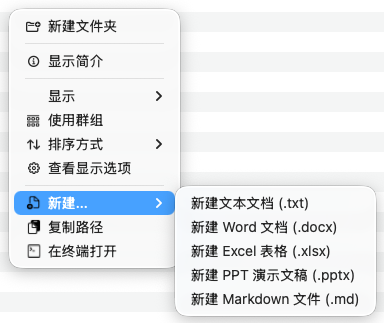
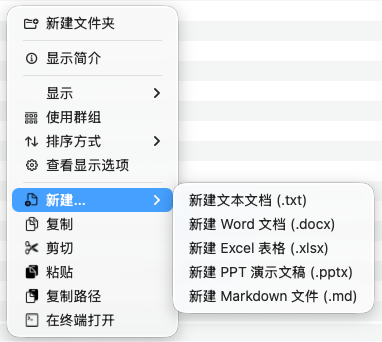
更新说明文档

diff --git a/README.md b/README.md
@@ -37,10 +37,12 @@
   <tr>
     <td align="center"><b>右键增强菜单</b></td>
     <td align="center"><b>自定义设置中心</b></td>
+    <td align="center"><b>自定义菜单调整顺序</b></td>
   </tr>
   <tr>
     <td align="center"><img src="assets/screenshot_menu.png" alt="右键菜单截图" width="300" /></td>
     <td align="center"><img src="assets/screenshot_settings.png" alt="设置界面截图" width="300" /></td>
+    <td align="center"><img src="assets/screenshot_menu_sort.png" alt="设置界面截图" width="300" /></td>
   </tr>
 </table>
 

diff --git a/README_EN.md b/README_EN.md
@@ -37,10 +37,12 @@
   <tr>
     <td align="center"><b>Enhanced Context Menu</b></td>
     <td align="center"><b>Custom Settings Center</b></td>
+    <td align="center"><b>Custom Menu Order</b></td>
   </tr>
   <tr>
     <td align="center"><img src="assets/screenshot_menu.png" alt="Menu Screenshot" width="300" /></td>
     <td align="center"><img src="assets/screenshot_settings.png" alt="Settings Screenshot" width="300" /></td>
+    <td align="center"><img src="assets/screenshot_menu_sort.png" alt="Menu Screenshot" width="300" /></td>
   </tr>
 </table>
 
